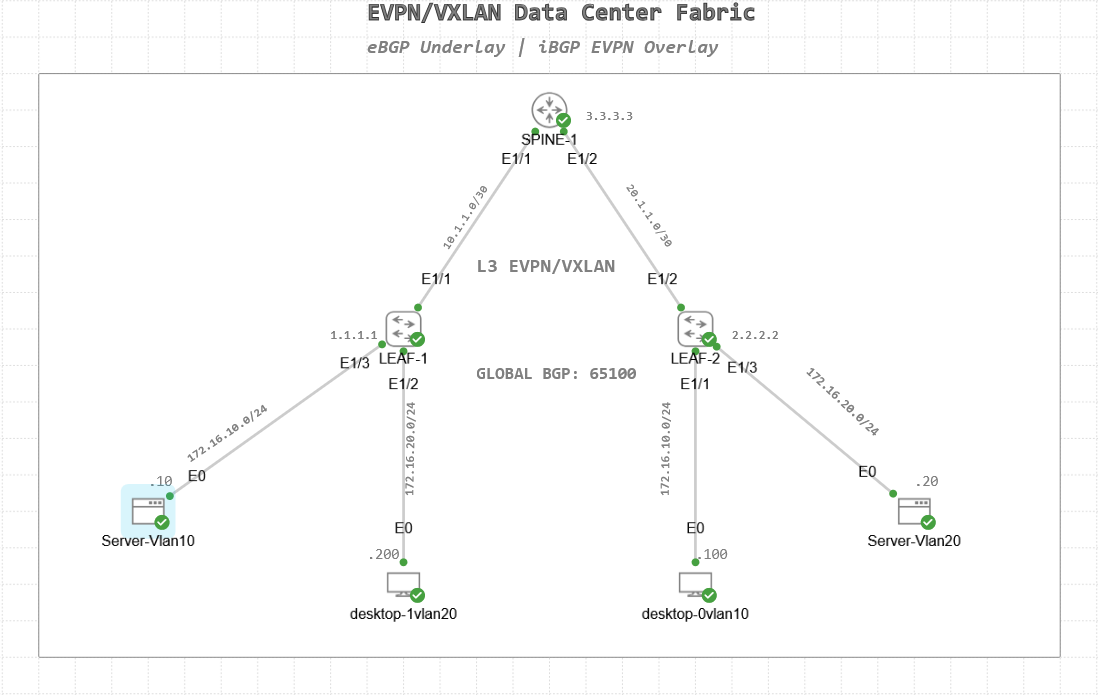
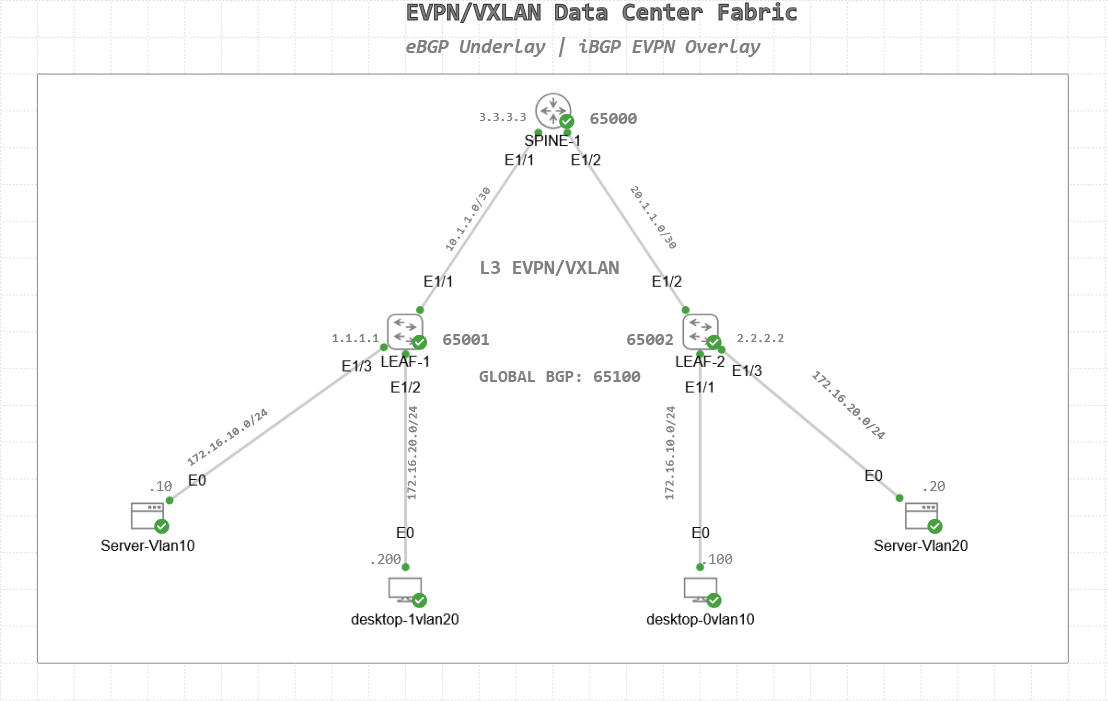
Added Topology to README

diff --git a/README.md b/README.md
@@ -1,4 +1,4 @@
-# EVPN/VXLAN Data Center Fabric
+# Modern EVPN/VXLAN Data Center Fabric
 
 ## Overview
 
@@ -15,6 +15,8 @@ The goal is to illustrate how modern data centers separate transport (underlay) 
 ---
 
 ## Topology
+
+![IBGP EVPN OVERLAY OVER EBGP UNDERLAY](Topology.png)
 
 ### Control Plane
 